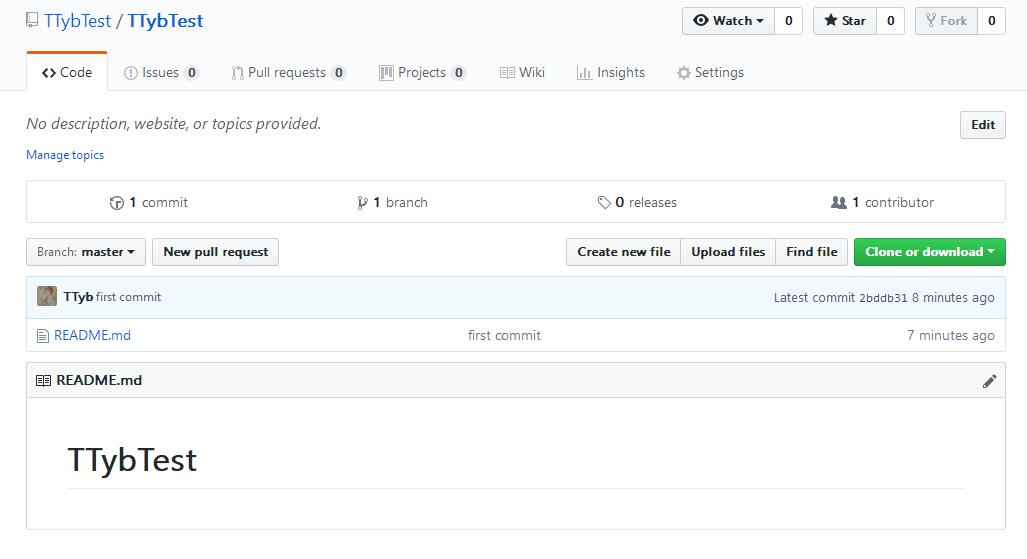
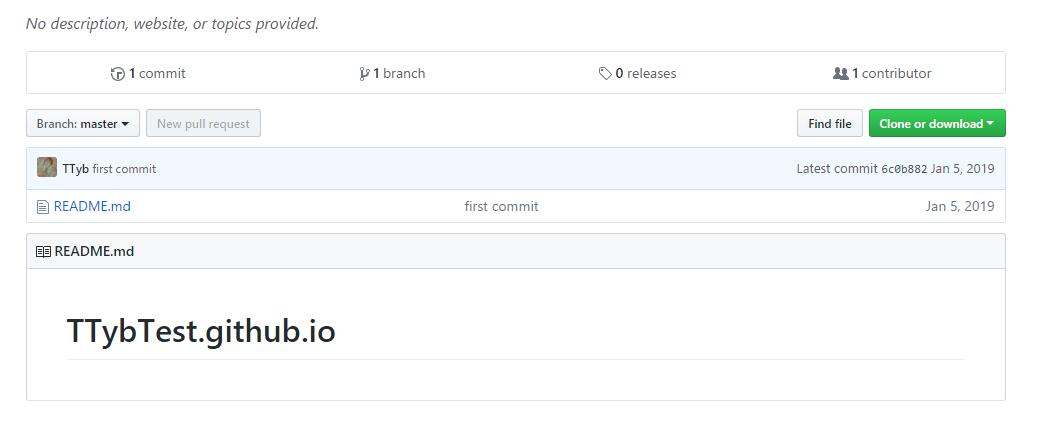
gitblogbug

diff --git a/_posts/gitblog/2019-01-04-2_配置本地github.md b/_posts/gitblog/2019-01-04-2_配置本地github.md
@@ -119,7 +119,7 @@ git push -u origin master
 >2. 初始化git
 >3. 将README.md放到本地临时仓库
 >4. 给这个临时仓库备注“first commit”
->5. 赋予这个临时仓库一个源地址“https://github.com/TTybTest/TTybTest.git”
+>5. 赋予这个临时仓库一个源地址“https://github.com/TTybTest/TTybTest.github.io.git”
 >6. 上传临时仓库到源地址里面
 
 <p style="text-align:center"><img src="/img/gitblog2/20190101175320.jpg" class="img-responsive" style="display: block; margin-right: auto; margin-left: auto;"></p>
@@ -128,7 +128,7 @@ git push -u origin master
 
 <p style="text-align:center"><img src="/img/gitblog2/20190101175432.jpg" class="img-responsive" style="display: block; margin-right: auto; margin-left: auto;"></p>
 
-这个时候再次打开[https://github.com/TTybTest/TTybTest](https://github.com/TTybTest/TTybTest)就可以看到里面提示的操作界面，而是有我们刚才上传的README.md文件：
+这个时候再次打开[https://github.com/TTybTest/TTybTest.github.io](https://github.com/TTybTest/TTybTest.github.io)就可以看到里面提示的操作界面，而是有我们刚才上传的README.md文件：
 
 <p style="text-align:center"><img src="/img/gitblog2/20190101180028.jpg" class="img-responsive" style="display: block; margin-right: auto; margin-left: auto;"></p>
 

diff --git a/_posts/gitblog/2019-01-03-1_新建账号和仓库.md b/_posts/gitblog/2019-01-03-1_新建账号和仓库.md
@@ -69,6 +69,6 @@ showdate: 2019-01-03
 
 <p style="text-align:center"><img src="/img/gitblog1/20181231201456.jpg" class="img-responsive" style="display: block; margin-right: auto; margin-left: auto;"></p>
 
-仓库的地址为 [https://github.com/TTybTest/TTybTest](https://github.com/TTybTest/TTybTest)。
+仓库的地址为 [https://github.com/TTybTest/TTybTest.github.io](https://github.com/TTybTest/TTybTest.github.io)。
 
 下一章节将介绍如何配置使用仓库。
